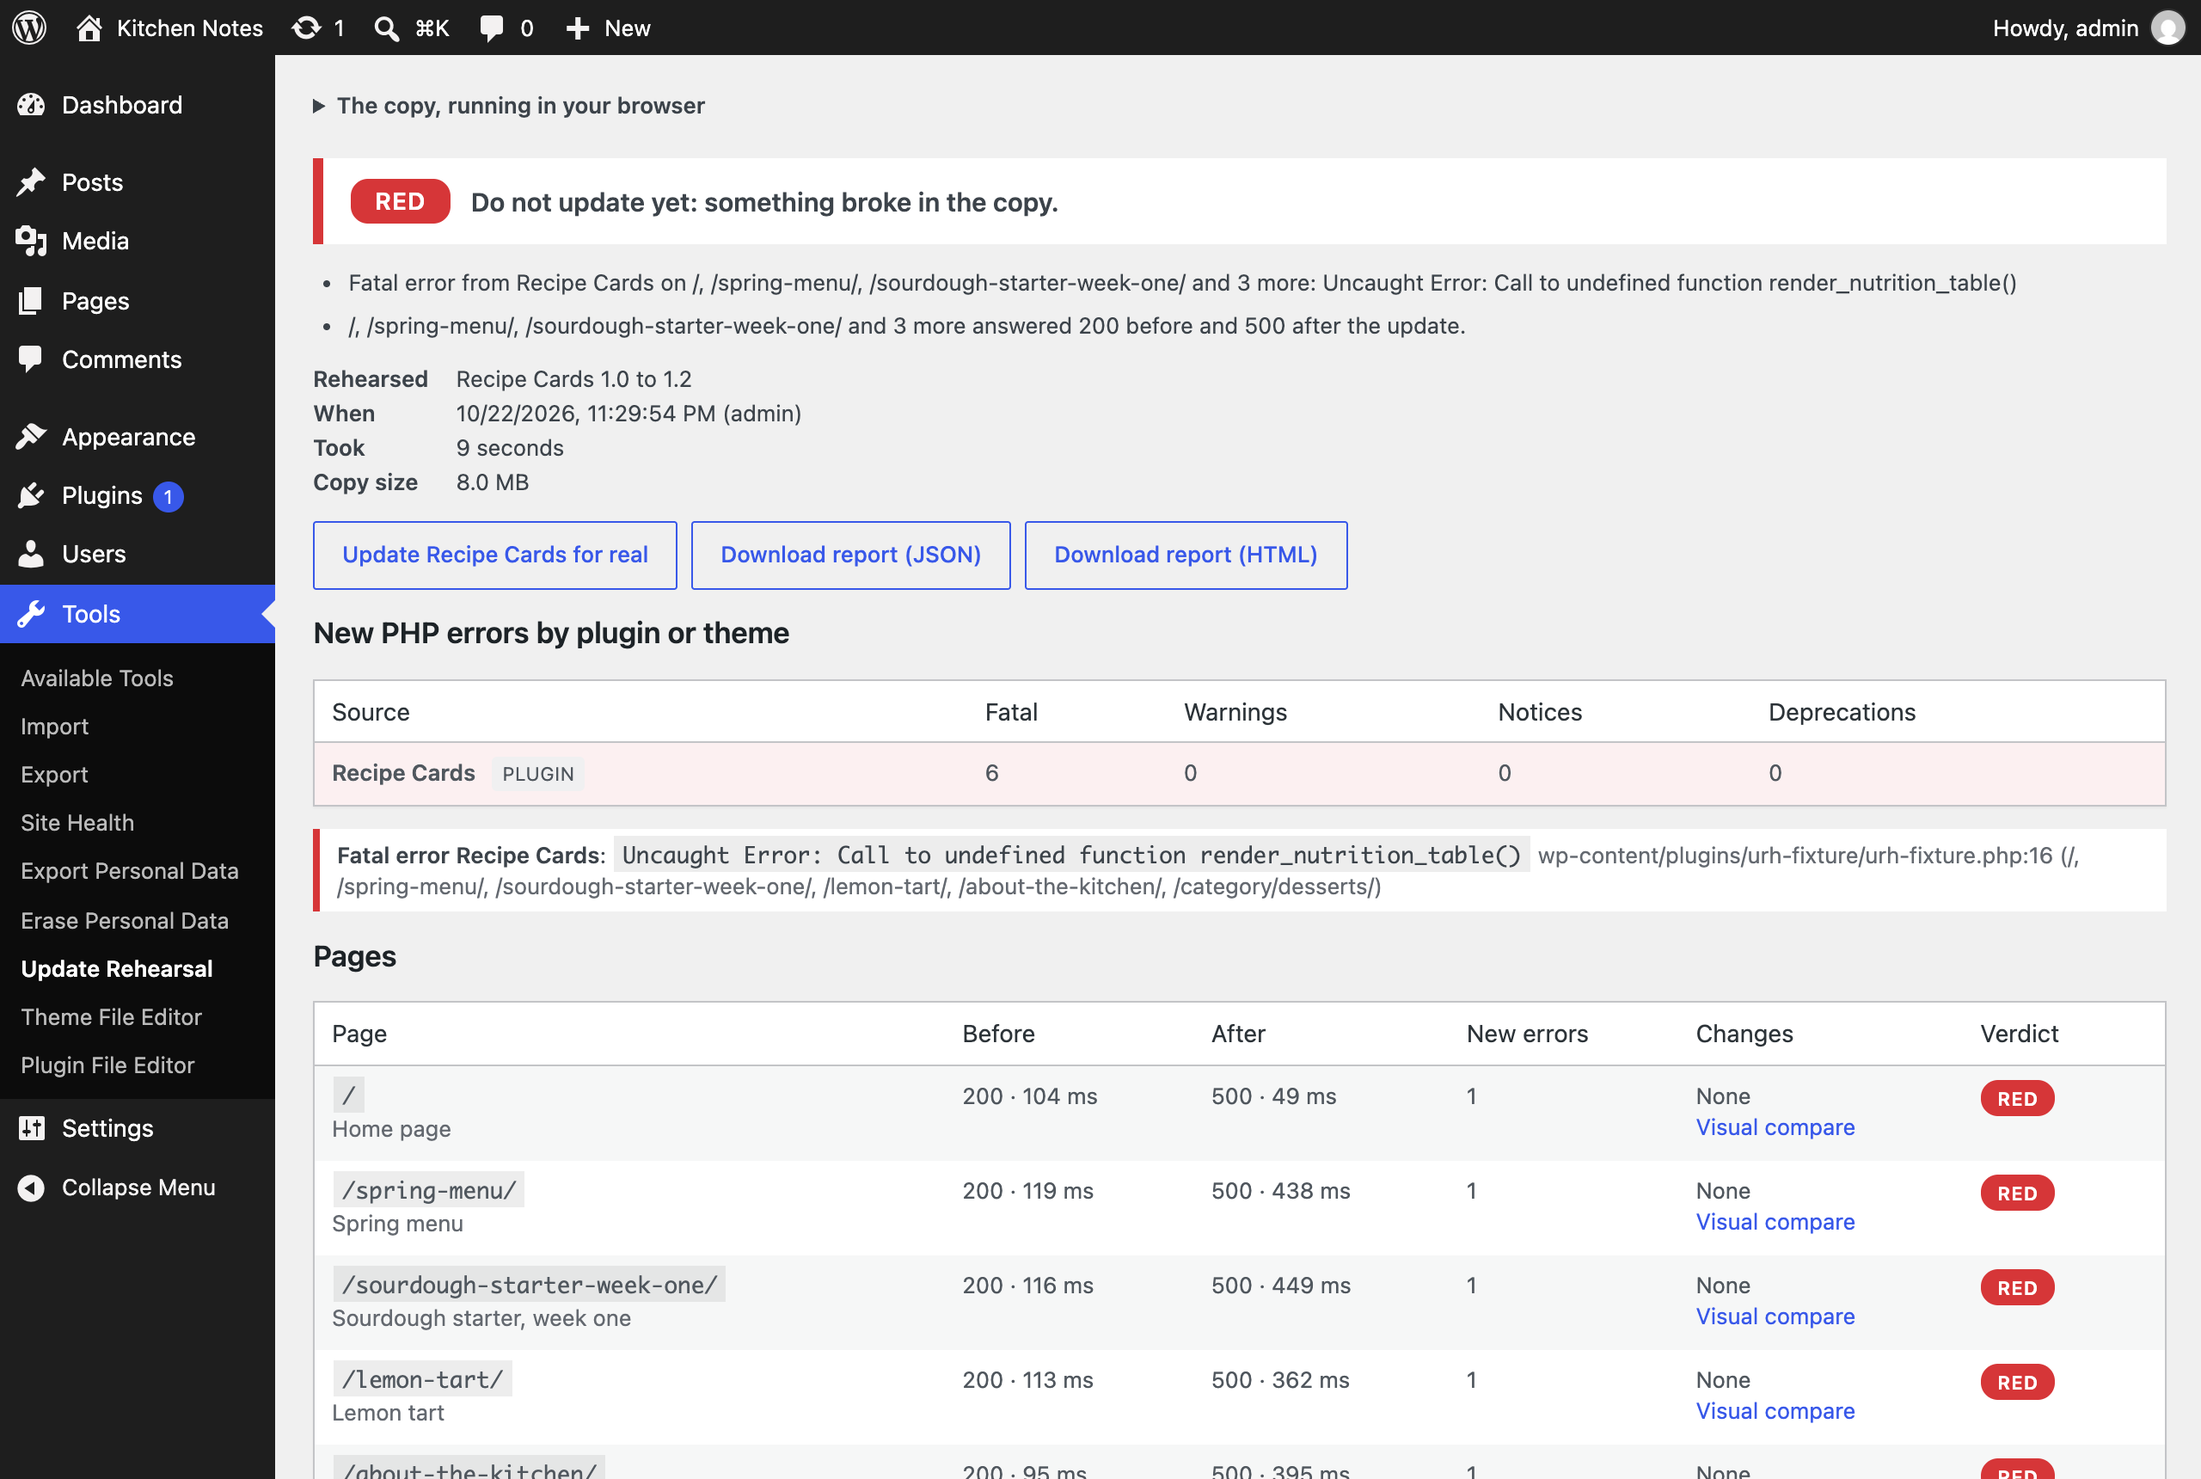
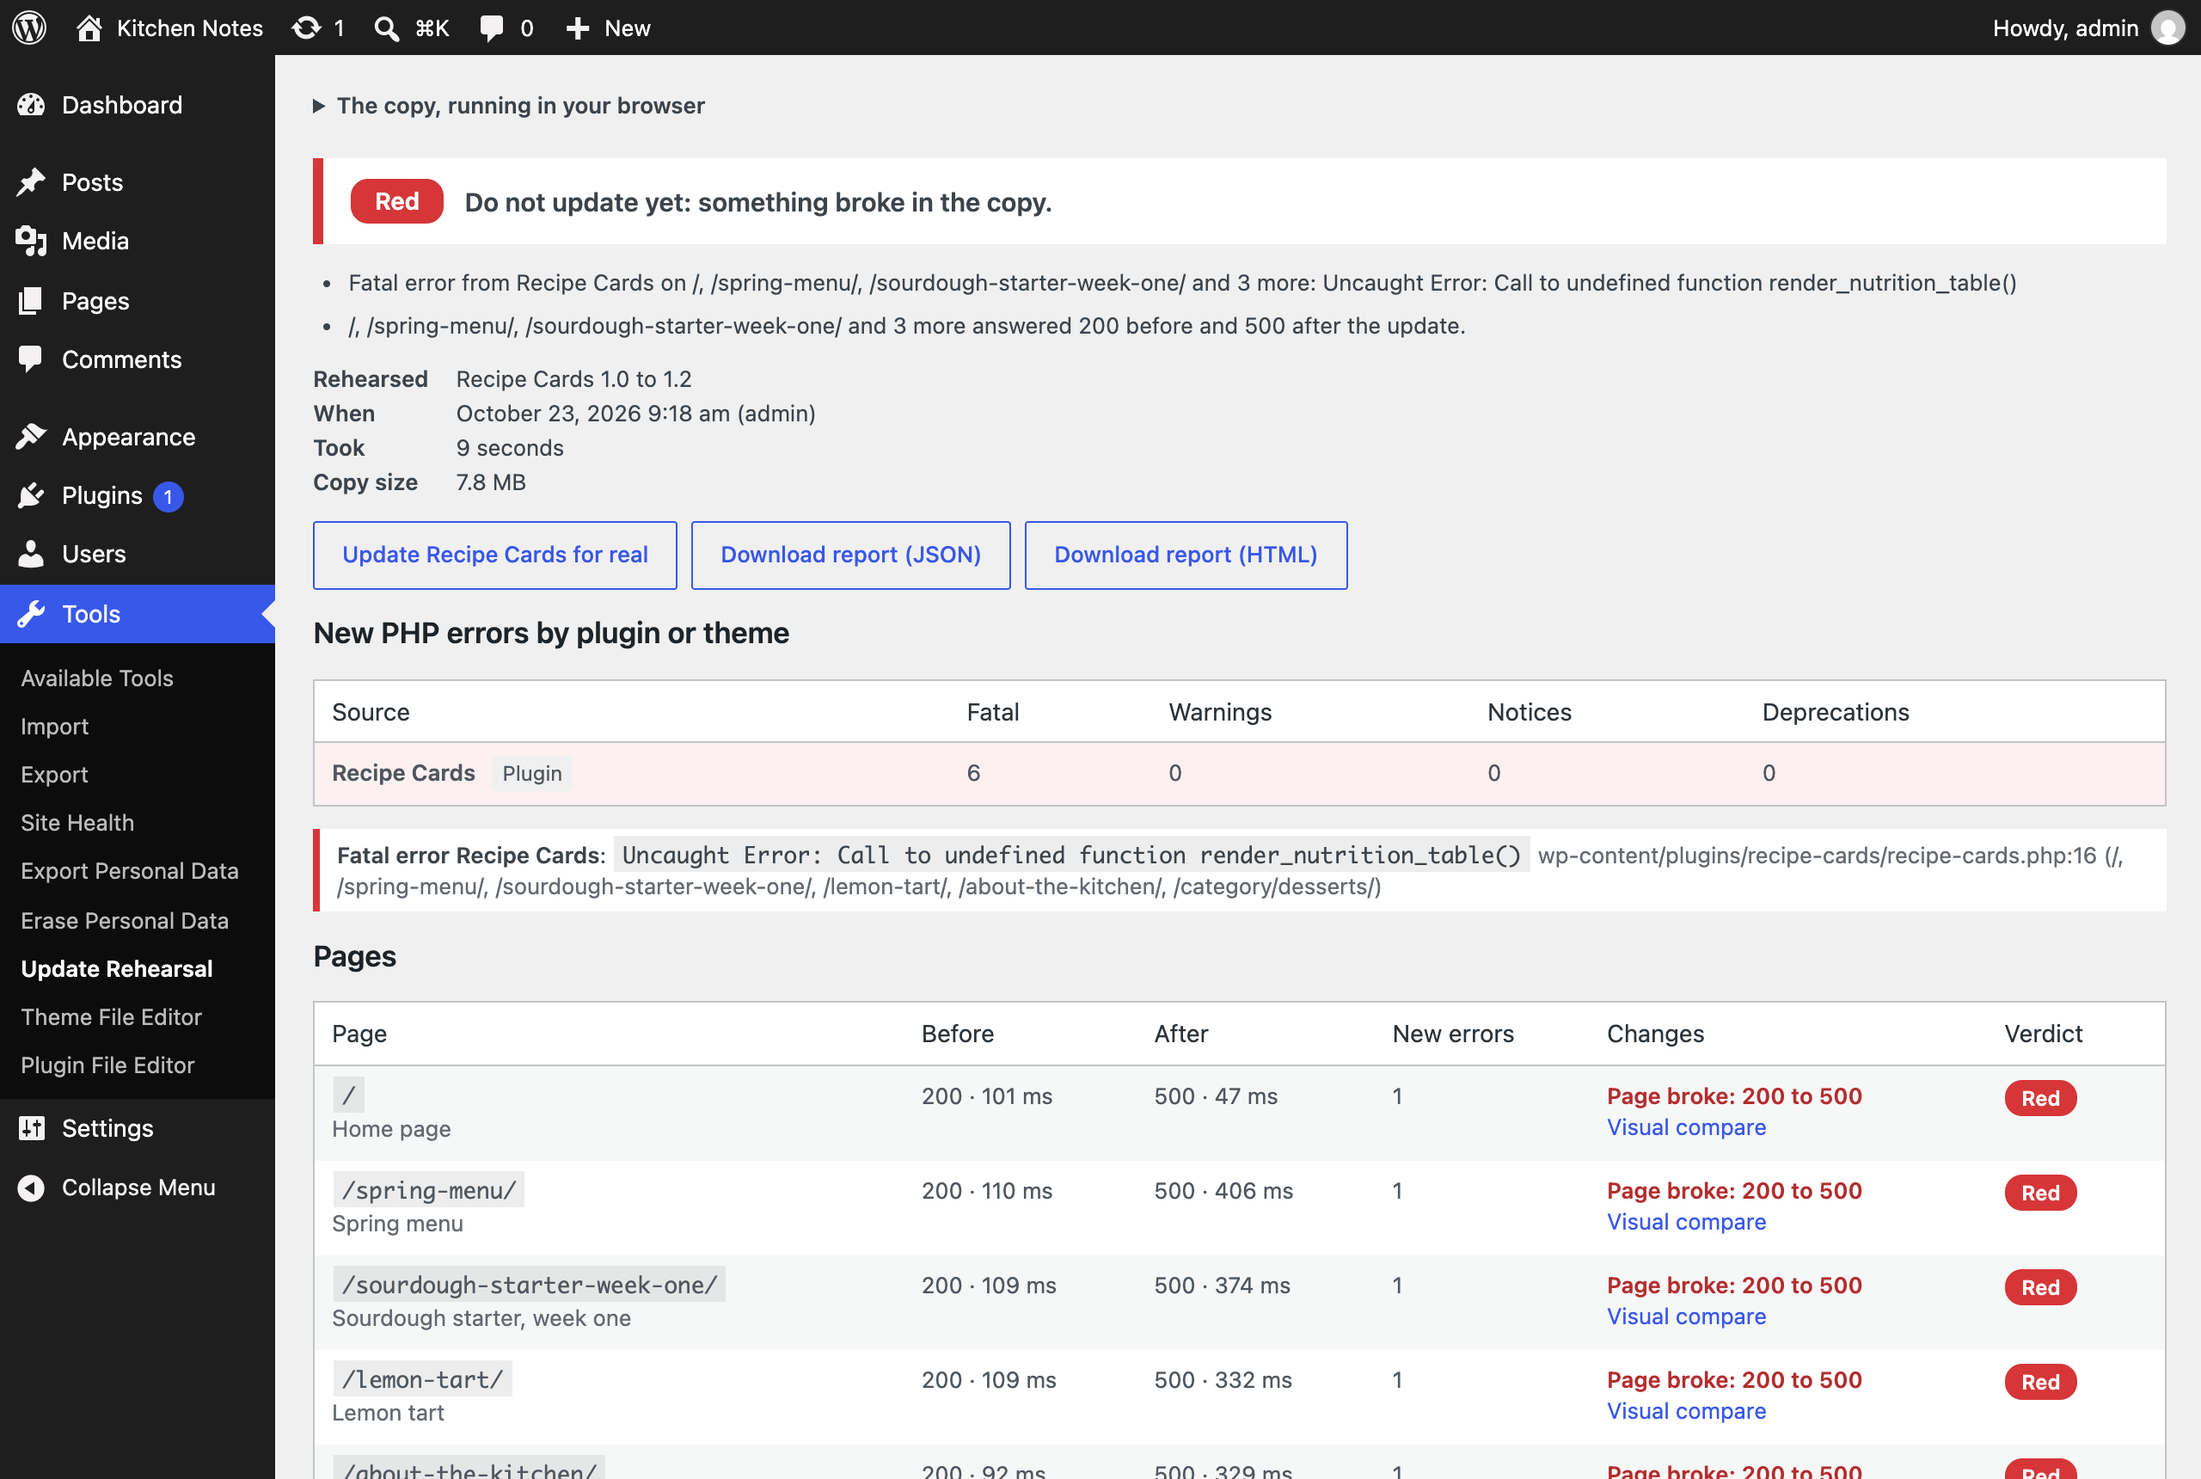
docs: explain the zipped size limit and new hooks, retake screenshots

diff --git a/docs/REFERENCE.md b/docs/REFERENCE.md
@@ -24,15 +24,28 @@
 
 Errors are matched by level, source and message, without line numbers, so a warning that only moved is not new. Errors inside WordPress go to the first plugin or theme in the stack trace.
 
+A page whose status changed says so in the Changes column, such as "Page broke: 200 to 500", even though its HTML is not compared. Under an amber or red verdict, "Update for real" asks first and names the problems (`updateRehearsal.confirmUpdate`).
+
+## Size of the copy
+
+The limit counts what your browser downloads: the zipped parts, not the files on disk. Code and SQL shrink to about a quarter once zipped, images and fonts hardly at all.
+
+- **The estimate** on the Rehearse tab adds the tables copied in full and the plugin and theme code, each times how much of it is left once zipped (`update_rehearsal_pack_ratios`). It runs a little high on purpose.
+- **The build** adds up the real size of each zipped part and stops as soon as the total passes the limit.
+- **Measuring the code** reads the size of every file, which takes seconds on a site with tens of thousands of them. So it happens once, after the screen loads ("Estimating the size of the copy..."), and the result is kept in the `update_rehearsal_code_size` transient for a day (`update_rehearsal_estimate_lifetime`). Installing, updating, turning on or off or deleting a plugin or theme forgets it, and so does saving the settings. "Measure again" on the screen, or `wp update-rehearsal estimate --fresh`, reads the files again. Site Health only reads the stored size.
+- **What stays out**: inactive plugins (unless "Copy inactive plugins too" is on), and development leftovers (`update_rehearsal_skipped_paths`): `.git`, `.svn`, `.hg`, `.github`, `.wordpress-org`, `node_modules`, `.DS_Store` and `*.zip` wherever they are, and `/tests` and `/test` at the top of a plugin or theme. Composer packages a plugin or theme installed for development only, the `dev-package-names` in its `vendor/composer/installed.json`, stay out too, except the files its autoloader loads at start (`update_rehearsal_skip_dev_packages`).
+
+Over the limit, the message names what makes the copy big: the biggest plugin and theme folders when code is most of it, the biggest tables when the database is.
+
 ## Hooks
 
 | Hook | Type | Use |
 | --- | --- | --- |
 | `update_rehearsal_capability` | filter | `( string $capability )`. Who can run rehearsals and read reports, on the screen, over REST and through abilities. Default `update_plugins` |
-| `update_rehearsal_bundle_max_bytes` | filter | `( int $bytes )`. The size cap of a bundle (database plus code). Default 100 MB, at least 1 MB |
+| `update_rehearsal_bundle_max_bytes` | filter | `( int $bytes )`. The size cap of a bundle (database plus code), once zipped. Default 100 MB, at least 1 MB |
 | `update_rehearsal_excluded_tables` | filter | `( string[] $names, array $tables )`. Tables copied as structure only. `$tables` has every table with `rows`, `bytes` and `core`. Core tables always go in full |
 | `update_rehearsal_table_size_threshold` | filter | `( int $bytes )`. Size above which a table that is not a core table goes in as structure only. Default 10 MB. 0 copies everything in full |
-| `update_rehearsal_include_inactive_plugins` | filter | `( bool $include )`. Copy inactive plugins. Default true, or the setting |
+| `update_rehearsal_include_inactive_plugins` | filter | `( bool $include )`. Copy inactive plugins. Default false, or the setting. Inactive plugins cannot change the pages checked |
 | `update_rehearsal_scrub_users` | filter | `( bool $scrub )`. Replace user emails and password hashes in the copy. Default true, or the setting |
 | `update_rehearsal_test_urls` | filter | `( array $urls )`. The pages requested before and after. Each entry: `path` (relative to the home page), `label`, `admin` (needs a login), `compare` (diff the HTML; off for admin screens). Plain strings work too |
 | `update_rehearsal_normalise_html` | filter | `( string[] $patterns )`. JavaScript regular expression sources removed from each page before the comparison, with the `gi` flags |
@@ -41,14 +54,18 @@ Errors are matched by level, source and message, without line numbers, so a warn
 | `update_rehearsal_playground_remote_url` | filter | `( string $url )`. The `remote.html` to boot, for a self-hosted Playground. Default `https://playground.wordpress.net/remote.html` |
 | `update_rehearsal_php_versions` | filter | `( array $versions )`. PHP versions offered for the copy. Default 7.4 to 8.5 |
 | `update_rehearsal_dropins_to_skip` | filter | `( string[] $files )`. Drop-ins left out. Default `object-cache.php`, `advanced-cache.php`, `db.php`. `db.php` always stays out |
-| `update_rehearsal_skipped_paths` | filter | `( string[] $names )`. File and folder names never copied. Default `.git`, `.svn`, `.hg`, `node_modules`, `.DS_Store` |
+| `update_rehearsal_skipped_paths` | filter | `( string[] $patterns )`. Files and folders never copied from plugins and themes. A name or shell pattern matches anywhere; a leading slash matches from the top of the plugin or theme folder. Default `.git`, `.svn`, `.hg`, `.github`, `.wordpress-org`, `node_modules`, `.DS_Store`, `*.zip`, `/tests`, `/test` |
+| `update_rehearsal_skip_dev_packages` | filter | `( bool $skip )`. Leave out Composer packages installed for development only, keeping their autoloaded files. Default true |
+| `update_rehearsal_pack_ratios` | filter | `( array $ratios )`. How much of each file type the estimate expects to be left once zipped, by lower-case extension, plus `database` (0.25) and `default` (0.5). Clamped to 0.01 to 1 |
+| `update_rehearsal_estimate_lifetime` | filter | `( int $seconds )`. How long the measured code size is kept. Default 1 day, at least 1 minute |
+| `update_rehearsal_date_format` | filter | `( string $format )`. PHP date format of rehearsal times on the screen, in the site's time zone. Default the site's date format and time format |
 | `update_rehearsal_excluded_options` | filter | `( string[] $patterns )`. Option names left out, as SQL LIKE patterns. Default transients and site transients. The plugin's own options always stay out |
 | `update_rehearsal_rows_per_query` | filter | `( int $rows )`. Rows read per query while exporting. Default 500, between 10 and 10000 |
 | `update_rehearsal_step_seconds` | filter | `( int $seconds )`. How long one build request runs. Default 8, between 1 and 60 |
 | `update_rehearsal_bundle_lifetime` | filter | `( int $seconds )`. How long bundle files stay before the clean-up removes them. Default 1 hour |
 | `update_rehearsal_work_dir` | filter | `( string $dir )`. Where bundles are built. Default `update-rehearsal/` in the system temp folder |
 | `update_rehearsal_retention_days` | filter | `( int $days )`. How long reports are kept. Default 90, or the setting |
-| `update_rehearsal_over_limit_message` | filter | `( string $message, array $estimate )`. What people read when the site is over the cap |
+| `update_rehearsal_over_limit_message` | filter | `( string $message, array $estimate )`. What people read when the site is over the cap. `$estimate` has the sizes on disk and zipped, the biggest tables (`biggest`) and folders (`folders`) |
 | `update_rehearsal_rehearsal_started` | action | `( array $job )`. Someone pressed Start and the bundle started building. `$job`: `id`, `user`, `items`, `php` |
 | `update_rehearsal_bundle_built` | action | `( string $dir, array $manifest )`. A bundle is ready, in the browser flow and for WP-CLI |
 | `update_rehearsal_rehearsal_finished` | action | `( array $report, int $post_id )`. A rehearsal finished and its report was stored |
@@ -97,6 +114,8 @@ The rehearsal screen runs `wp.hooks`, read when used, so scripts that load later
 | `updateRehearsal.blueprintSteps` | filter | `( steps, context )`. [Blueprint steps](https://wordpress.github.io/wordpress-playground/blueprints/steps) run in the copy after it loads and before the first request. Default: `defineWpConfigConsts` with `WP_DEBUG_LOG` on and cron off. `context`: `phase`, `items`, `php`, `manifest` |
 | `updateRehearsal.stepFinished` | action | `( step, context )`. A step finished: `bundle`, `download`, `boot`, `load`, `before`, `apply`, `after`, `compare` |
 | `updateRehearsal.finished` | action | `( report, context )`. The run ended, finished or failed. `report.verdict` is the stored verdict |
+| `updateRehearsal.confirmUpdate` | filter | `( ask, context )`. Whether "Update for real" asks first. `ask`: `required` (true under amber and red), `level`, `reasons` (up to five, in words), `more`. `context`: `item`, `stored`. Return `required: false` to skip the question |
+| `updateRehearsal.estimated` | action | `( estimate )`. The size of the copy arrived on the Rehearse tab, after loading or "Measure again" |
 
 ```js
 // Logged-in widgets show a random greeting: leave it out of the comparison.
@@ -110,7 +129,7 @@ wp.hooks.addFilter( 'updateRehearsal.blueprintSteps', 'my-plugin', ( steps ) =>
 );
 ```
 
-`window.updateRehearsal` exposes `testUrls( context )`, `run( { items, php } )`, `renderReport( element, rehearsal, options )` and `selection()`.
+`window.updateRehearsal` exposes `testUrls( context )`, `run( { items, php } )`, `renderReport( element, rehearsal, options )`, `selection()` and `loadEstimate( fresh )`.
 
 ## Abilities
 
@@ -120,14 +139,14 @@ On WordPress 6.9 and later, Update Rehearsal registers [abilities](https://devel
 | --- | --- |
 | `update-rehearsal/list-rehearsals` | Past rehearsals, newest first, with the verdict and reasons. Input: `verdict`, `limit`, `page` |
 | `update-rehearsal/get-rehearsal` | One rehearsal with its full report: pages, new errors by source, failed tables. Input: `id` |
-| `update-rehearsal/get-bundle-estimate` | How big a copy would be, the limit, the biggest tables and the tables copied as structure only |
+| `update-rehearsal/get-bundle-estimate` | How big a copy would be on disk and once zipped, the limit, the biggest tables and plugin or theme folders, and the tables copied as structure only |
 
 Running a rehearsal needs a browser, because the copy runs in WordPress Playground there, so no ability starts one. For a rehearsal without a browser, see CI below.
 
 ## WP-CLI
 
 ```sh
-wp update-rehearsal estimate [--format=table|csv|json|yaml]
+wp update-rehearsal estimate [--fresh] [--format=table|csv|json|yaml]
 wp update-rehearsal updates [--format=table|csv|json|yaml|count]
 wp update-rehearsal bundle [--output=<file>] [--updates=all|none|<keys>] [--php=<version>]
 wp update-rehearsal list [--verdict=<verdict>] [--per-page=<n>] [--page=<n>] [--fields=<fields>] [--format=table|csv|json|yaml|ids|count]

diff --git a/README.md b/README.md
@@ -37,8 +37,8 @@ Updating a plugin, a theme, WordPress or the PHP version on a live site is a gam
 - **New PHP errors by plugin or theme**, read from the copy's debug.log; an error inside WordPress goes to the plugin that called it
 - **Each page before and after**: status, response time, new errors, a diff of the visible text and elements, and a side by side visual compare
 - **A safe copy**: no transients or sessions, emails and password hashes replaced, no uploads, and the copy sends no email, runs no cron and makes no outgoing requests
-- **Size first**: the screen shows how big the copy is, and refuses a site over the 100 MB limit with the tables that make it big
-- **Update for real** links, JSON and HTML report downloads, "Rehearsed 2 hours ago: green" on the Plugins screen, and a history
+- **Size first**: the screen shows how big the copy is once zipped, and refuses a site over the 100 MB limit, naming the plugin folders or tables that make it big
+- **Update for real** links that ask first under amber or red and name the problems, JSON and HTML report downloads, "Rehearsed 2 hours ago: green" on the Plugins screen, and a history
 - WP-CLI, a bundle for @wp-playground/cli in CI, abilities for AI agents, and a hook for every default
 
 ## Install
@@ -141,6 +141,12 @@ Small plugins that each fill one gap in WordPress, all free with no pro version:
 | <img src="https://raw.githubusercontent.com/aryanjasala/category-tag-trash/main/.wordpress-org/icon-128x128.png" alt="" width="32"> | [Category & Tag Trash](https://github.com/aryanjasala/category-tag-trash) | A trash for categories, tags and custom terms, with undo and full restore |
 | <img src="https://raw.githubusercontent.com/aryanjasala/site-read-only-mode/main/.wordpress-org/icon-128x128.png" alt="" width="32"> | [Site Read-Only Mode](https://github.com/aryanjasala/site-read-only-mode) | Read-only mode for WordPress during migrations and deploys |
 | <img src="https://raw.githubusercontent.com/aryanjasala/restore-blocks-from-revisions/main/.wordpress-org/icon-128x128.png" alt="" width="32"> | [Restore Blocks from Revisions](https://github.com/aryanjasala/restore-blocks-from-revisions) | Restore a single block from an old revision, not the whole post |
+| <img src="https://raw.githubusercontent.com/aryanjasala/activity-log-with-undo/main/.wordpress-org/icon-128x128.png" alt="" width="32"> | [Activity Log with Undo](https://github.com/aryanjasala/activity-log-with-undo) | An activity log where every change you can reverse has an Undo button |
+| <img src="https://raw.githubusercontent.com/aryanjasala/agent-governance/main/.wordpress-org/icon-128x128.png" alt="" width="32"> | [Agent Governance](https://github.com/aryanjasala/agent-governance) | Hold risky AI agent calls for approval, preview what they change, and roll back a session |
+| <img src="https://raw.githubusercontent.com/aryanjasala/block-doctor/main/.wordpress-org/icon-128x128.png" alt="" width="32"> | [Block Doctor](https://github.com/aryanjasala/block-doctor) | Scan the whole site for invalid and broken blocks and fix them in bulk, with undo |
+| <img src="https://raw.githubusercontent.com/aryanjasala/block-theme-ops/main/.wordpress-org/icon-128x128.png" alt="" width="32"> | [Block Theme Ops](https://github.com/aryanjasala/block-theme-ops) | Find Site Editor changes that override your theme files, see the diff, reset them or send them to Git |
+| <img src="https://raw.githubusercontent.com/aryanjasala/role-right-sizer/main/.wordpress-org/icon-128x128.png" alt="" width="32"> | [Role Right-Sizer](https://github.com/aryanjasala/role-right-sizer) | Recommends the smallest role each user needs, from what they actually do |
+| <img src="https://raw.githubusercontent.com/aryanjasala/user-session-manager/main/.wordpress-org/icon-128x128.png" alt="" width="32"> | [User Session Manager](https://github.com/aryanjasala/user-session-manager) | See every device signed in, sign out one, and limit sessions per role |
 
 ## License
 
